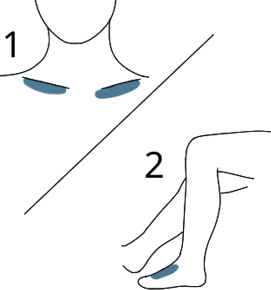
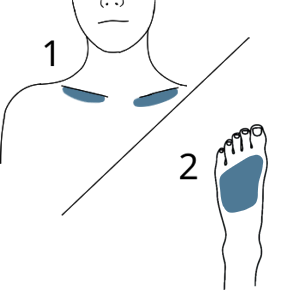
Improved prick instructions to be more specific

diff --git a/lib/survey/prick_part.dart b/lib/survey/prick_part.dart
@@ -26,15 +26,26 @@ const List<Widget> _prickIntroText = [
 ];
 const String _leftLegTitle = 'common.left-leg';
 const String _rightLegTitle = 'common.right-leg';
-const List<String> _prickTextContent = [
+const List<String> _toePrickTextContent = [
   'prick-test.text-1',
-  'prick-test.text-2',
-  'prick-test.text-3'
+  'prick-test.text-2-toe',
+  'prick-test.text-3-toe'
+];
+const List<String> _footPrickTextContent = [
+  'prick-test.text-1',
+  'prick-test.text-2-foot',
+  'prick-test.text-3-foot'
+];
+const List<String> _legPrickTextContent = [
+  'prick-test.text-1',
+  'prick-test.text-2-leg',
+  'prick-test.text-3-leg'
 ];
 const String _bottomSheetTitle = 'prick-test.bottom-sheet-title';
 const List<String> _bottomSheetTextContent = [
   'prick-test.bottom-sheet-text-1',
   'prick-test.bottom-sheet-text-2',
+  'prick-test.bottom-sheet-text-3',
 ];
 const List<String> _allodyniaQuestion = ['allodynia.text'];
 const List<String> _hyperaesthesiaQuestion = ['hypersensitivity.text'];
@@ -85,42 +96,42 @@ enum PrickStrings {
   leftLeg1(
       'prick_left_1',
       _leftLegTitle,
-      _prickTextContent,
+      _toePrickTextContent,
       'assets/images/steps/prick/left_leg_1.png',
       _bottomSheetTitle,
       _bottomSheetTextContent),
   leftLeg2(
       'prick_left_2',
       _leftLegTitle,
-      _prickTextContent,
+      _footPrickTextContent,
       'assets/images/steps/prick/left_leg_2.png',
       _bottomSheetTitle,
       _bottomSheetTextContent),
   leftLeg3(
       'prick_left_3',
       _leftLegTitle,
-      _prickTextContent,
+      _legPrickTextContent,
       'assets/images/steps/prick/left_leg_3.png',
       _bottomSheetTitle,
       _bottomSheetTextContent),
   leftLeg4(
       'prick_left_4',
       _leftLegTitle,
-      _prickTextContent,
+      _legPrickTextContent,
       'assets/images/steps/prick/left_leg_4.png',
       _bottomSheetTitle,
       _bottomSheetTextContent),
   leftLeg5(
       'prick_left_5',
       _leftLegTitle,
-      _prickTextContent,
+      _legPrickTextContent,
       'assets/images/steps/prick/left_leg_5.png',
       _bottomSheetTitle,
       _bottomSheetTextContent),
   leftLeg6(
       'prick_left_6',
       _leftLegTitle,
-      _prickTextContent,
+      _legPrickTextContent,
       'assets/images/steps/prick/left_leg_6.png',
       _bottomSheetTitle,
       _bottomSheetTextContent),
@@ -131,42 +142,42 @@ enum PrickStrings {
   rightLeg1(
       'prick_right_1',
       _rightLegTitle,
-      _prickTextContent,
+      _toePrickTextContent,
       'assets/images/steps/prick/right_leg_1.png',
       _bottomSheetTitle,
       _bottomSheetTextContent),
   rightLeg2(
       'prick_right_2',
       _rightLegTitle,
-      _prickTextContent,
+      _footPrickTextContent,
       'assets/images/steps/prick/right_leg_2.png',
       _bottomSheetTitle,
       _bottomSheetTextContent),
   rightLeg3(
       'prick_right_3',
       _rightLegTitle,
-      _prickTextContent,
+      _legPrickTextContent,
       'assets/images/steps/prick/right_leg_3.png',
       _bottomSheetTitle,
       _bottomSheetTextContent),
   rightLeg4(
       'prick_right_4',
       _rightLegTitle,
-      _prickTextContent,
+      _legPrickTextContent,
       'assets/images/steps/prick/right_leg_4.png',
       _bottomSheetTitle,
       _bottomSheetTextContent),
   rightLeg5(
       'prick_right_5',
       _rightLegTitle,
-      _prickTextContent,
+      _legPrickTextContent,
       'assets/images/steps/prick/right_leg_5.png',
       _bottomSheetTitle,
       _bottomSheetTextContent),
   rightLeg6(
       'prick_right_6',
       _rightLegTitle,
-      _prickTextContent,
+      _legPrickTextContent,
       'assets/images/steps/prick/right_leg_6.png',
       _bottomSheetTitle,
       _bottomSheetTextContent),

diff --git a/lib/linear_survey.dart b/lib/linear_survey.dart
@@ -17,7 +17,9 @@ RPInstructionStepWithChildren introductionStep = RPInstructionStepWithChildren(
   title: 'begin-examination.title',
   instructionContent: [
     const Text('begin-examination.text-1', textAlign: TextAlign.center),
-    const Text('begin-examination.text-2', textAlign: TextAlign.center)
+    const Text('begin-examination.text-2', textAlign: TextAlign.center),
+    const Text('begin-examination.text-3', textAlign: TextAlign.center),
+    const Text('begin-examination.text-4', textAlign: TextAlign.center)
   ],
 );
 
